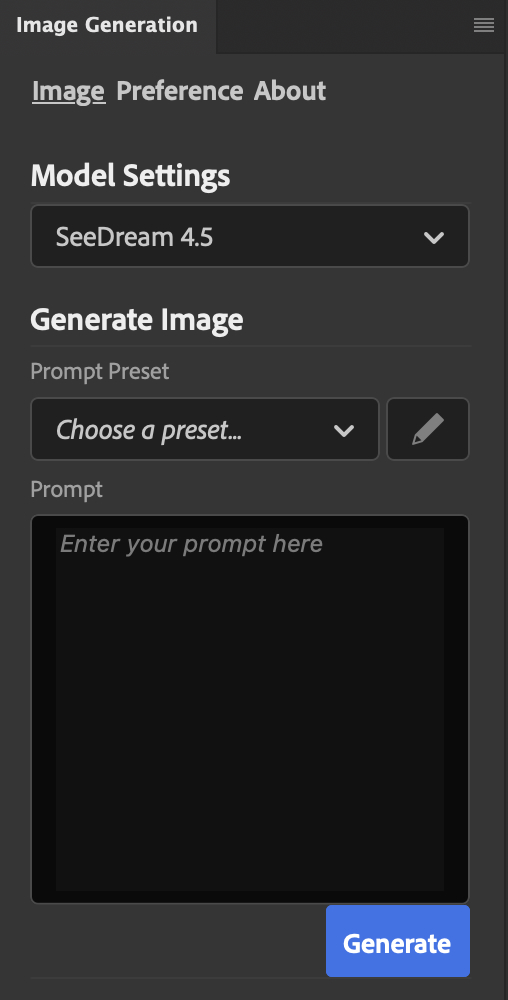
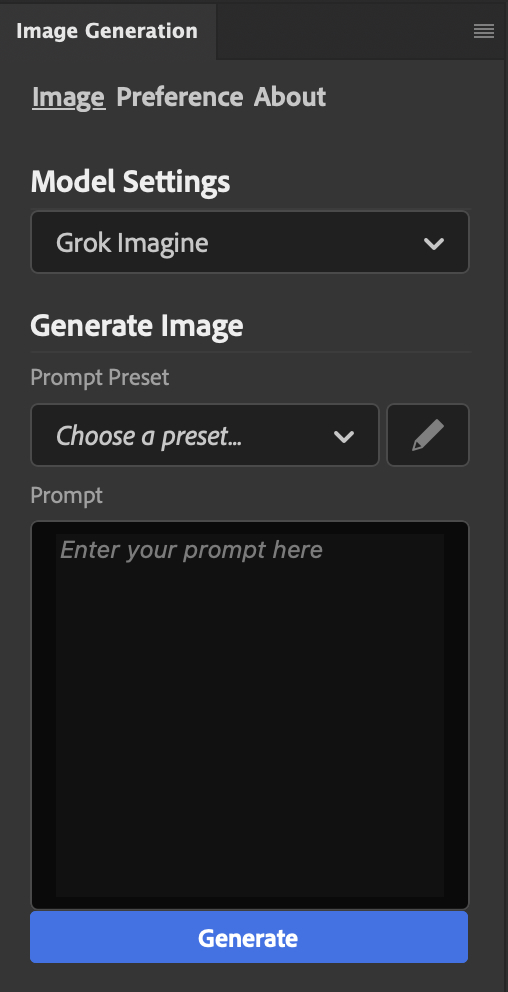
docs: update README

diff --git a/README.md b/README.md
@@ -22,6 +22,7 @@ Bring state-of-the-art image generation and edits directly into Photoshop. This 
 ## Supported models
 - Google: Nano Banana Pro 3
 - ByteDance: SeeDream 4.5
+- xAI: Grok Imagine
 
 ## Quick start
 1) Install the plugin by extracting source code into `Plug-ins` folder of your photoshop (**restart required**).
@@ -34,6 +35,7 @@ Bring state-of-the-art image generation and edits directly into Photoshop. This 
 Choose one or both:
 - Google API key: [Google Vertex AI](https://cloud.google.com/vertex-ai?hl=en)
 - ByteDance API key: [Volcengine](https://console.volcengine.com/ark/region:ark+cn-beijing/openManagement?LLM=%7B%7D&advancedActiveKey=model&tab=ComputerVision)
+- xAI API Key: [xAI ](https://console.x.ai/team/350bf501-bfe9-4f7b-91bc-62ce42bffd22)
 
 ## Screenshots
 ### Main Page
